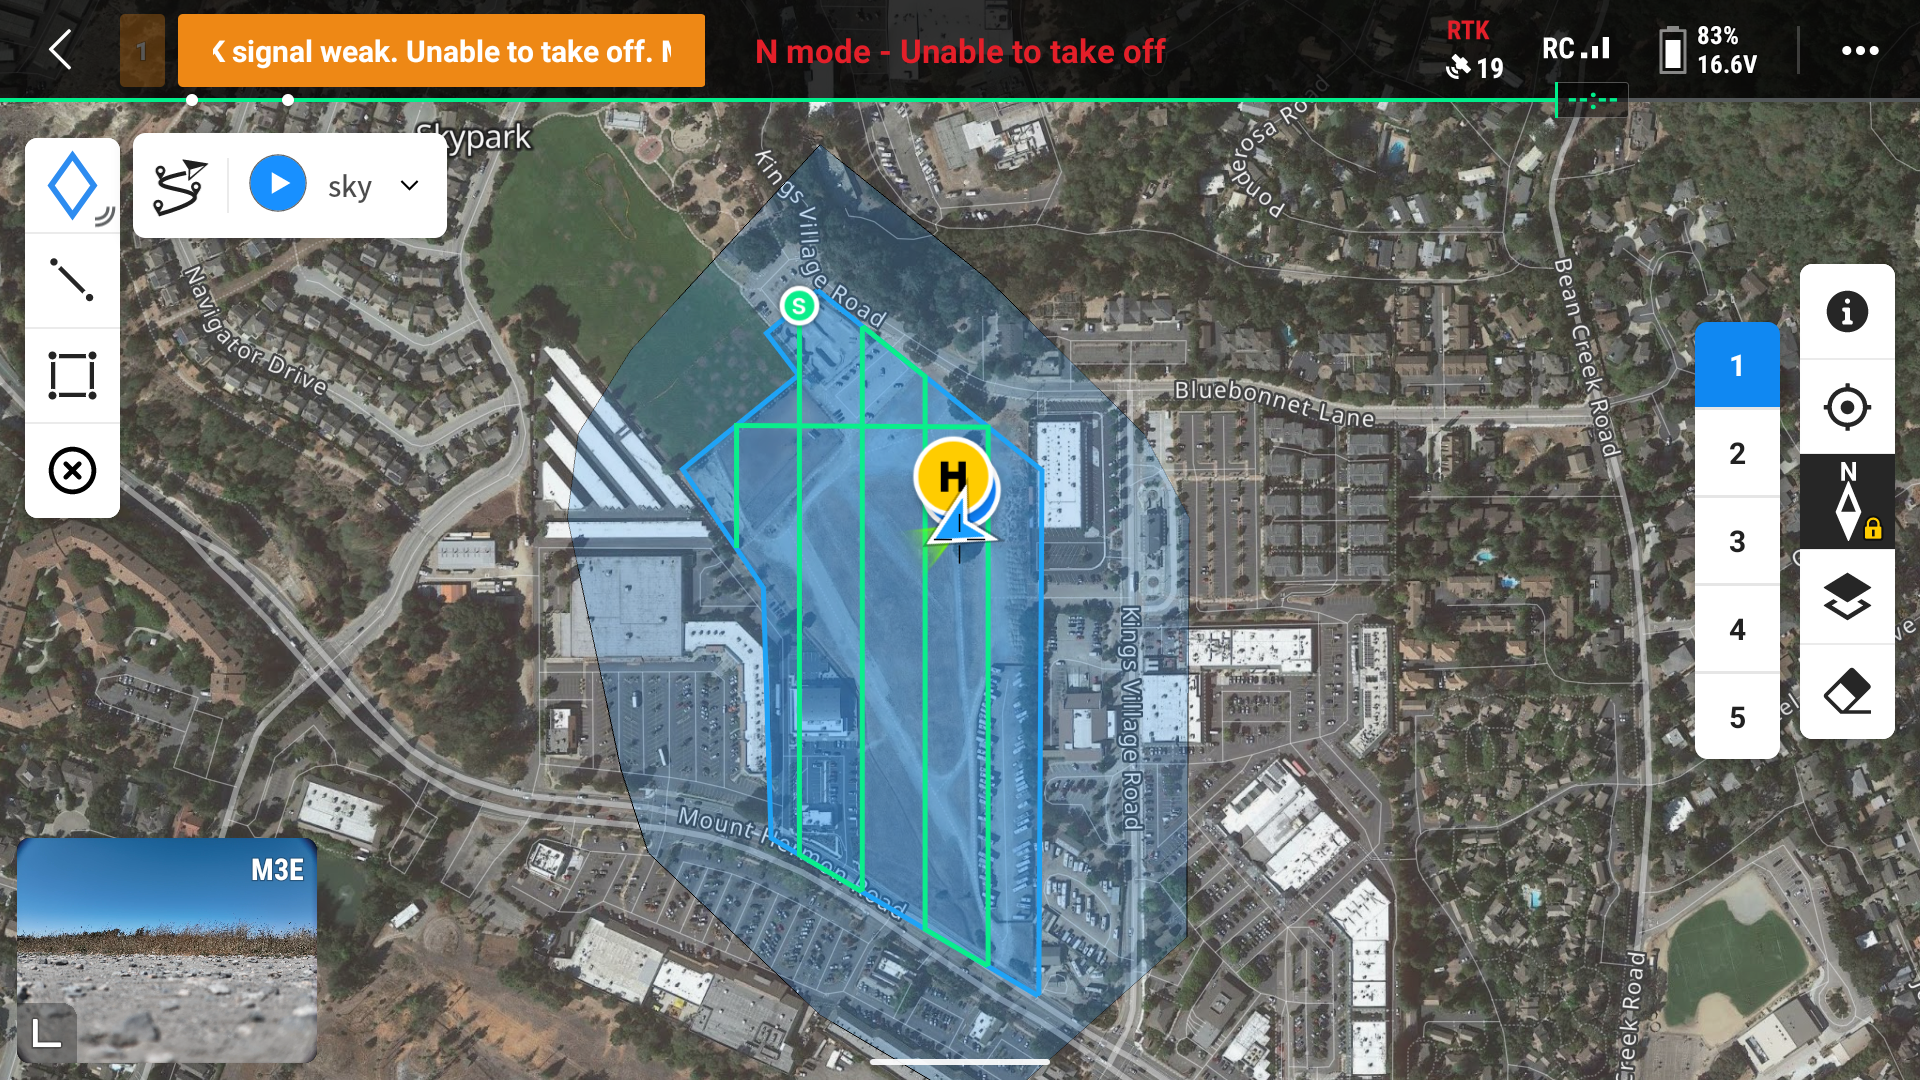
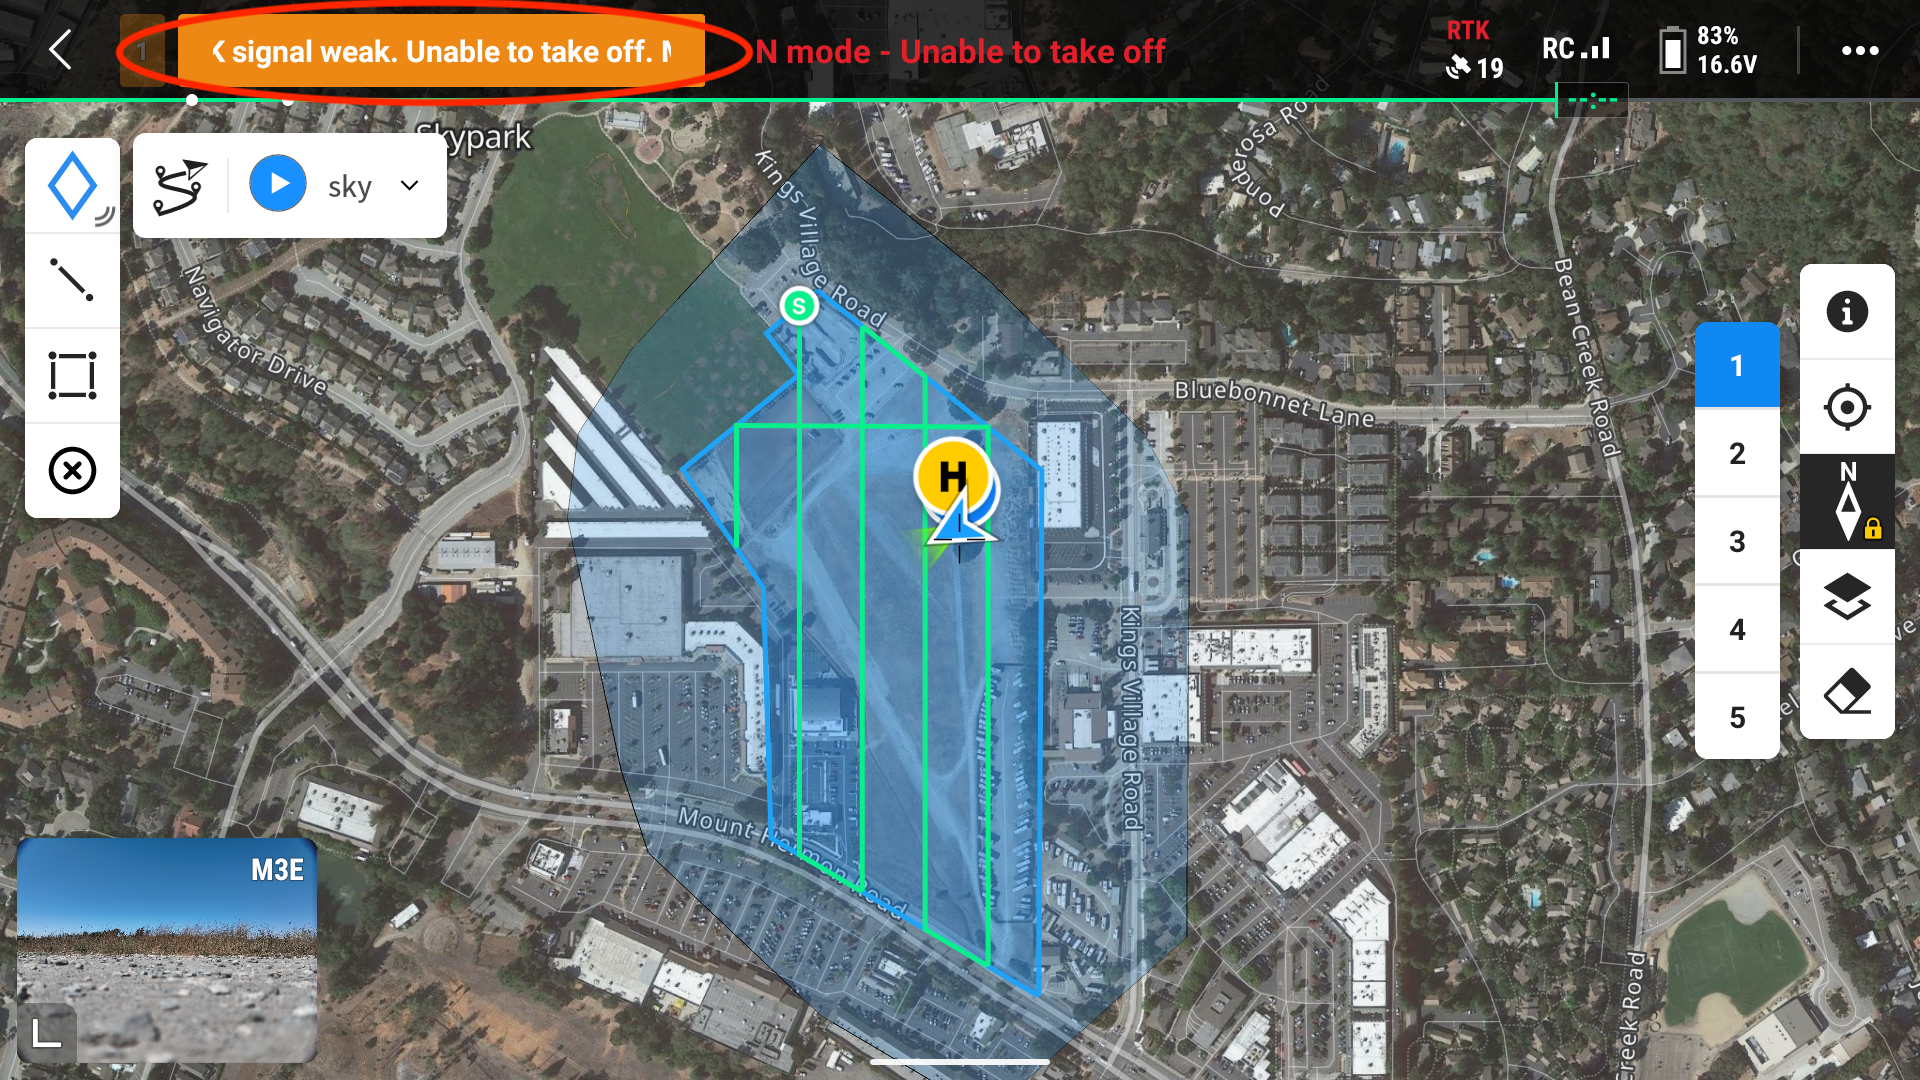
Finish post.

Changed region(s): [[0.0625, 0.0, 0.375, 0.1222], [0.2812, 0.0611, 0.375, 0.0917], [0.375, 0.0306, 0.4062, 0.0611]]

diff --git a/src/content/blog/emlid-mavic3e.md b/src/content/blog/emlid-mavic3e.md
@@ -1,7 +1,7 @@
 ---
 title: Getting Started with Emlid RS2+ and DJI Mavic 3 Enterprise
-description: A walkthrough showing you how to set up an Emlid RS2+ as an RTK base station with a DJI Mavic 3 Enterprise, as well as setting ground control points and flight planning.
-pubDate: Wed Aug 9 2023
+description: A walkthrough showing you how to set up an Emlid RS2+ as an RTK base station with a DJI Mavic 3 Enterprise.
+pubDate: Sun Aug 20 2023
 featured: true
 tags:
   - Emlid
@@ -188,8 +188,14 @@ This message is painfully non-descriptive. Most likely, you need to check:
 2. Does the base have a FIX on its location, or is the location entered manually?
 3. Is the drone in a wide-open area with good GNSS signal?
 
-## Plan Flight Route
+You will need to enter the credentials provided previously in Emlid Reach. You select **Custom Network RTK** as shown below. The NTRIP Host IP address varies, so make sure this IP address is correct.
 
-# Fly
+![Custom Network RTK](/emlid-mavic3e/custom.png)
 
-The final phase is executing the automated flight(s). This is the easy part, and you will mostly get to sit back and simply monitor your drone, making sure that it is operating safely.
+Another trick I have noticed is that if I want the controller to check again for NTRIP corrections, I press the **Save** button again. It may then resolve and show that we are ready to fly.
+
+![Save](/emlid-mavic3e/save.png)
+
+When the RTK connection is working, you should see in the status **RTK connected. RTK data in use.** Also, you should see in the top left corner **Normal**.
+
+![Ready to Fly](/emlid-mavic3e/readytofly.png)
